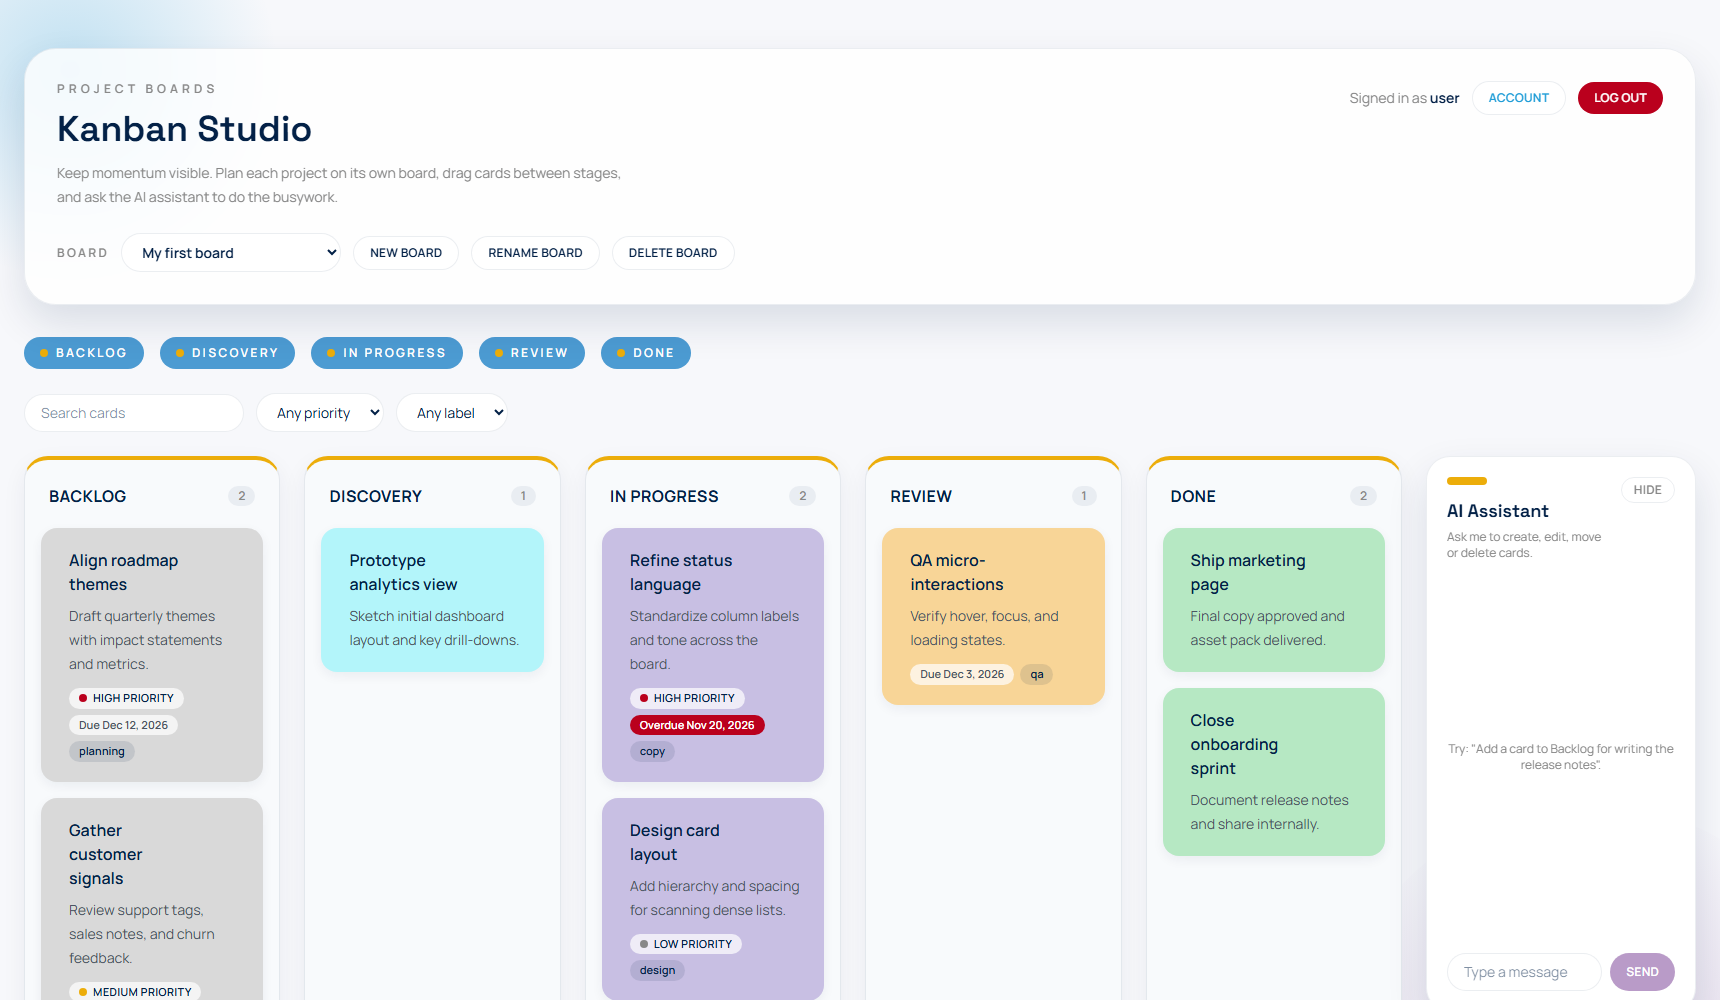
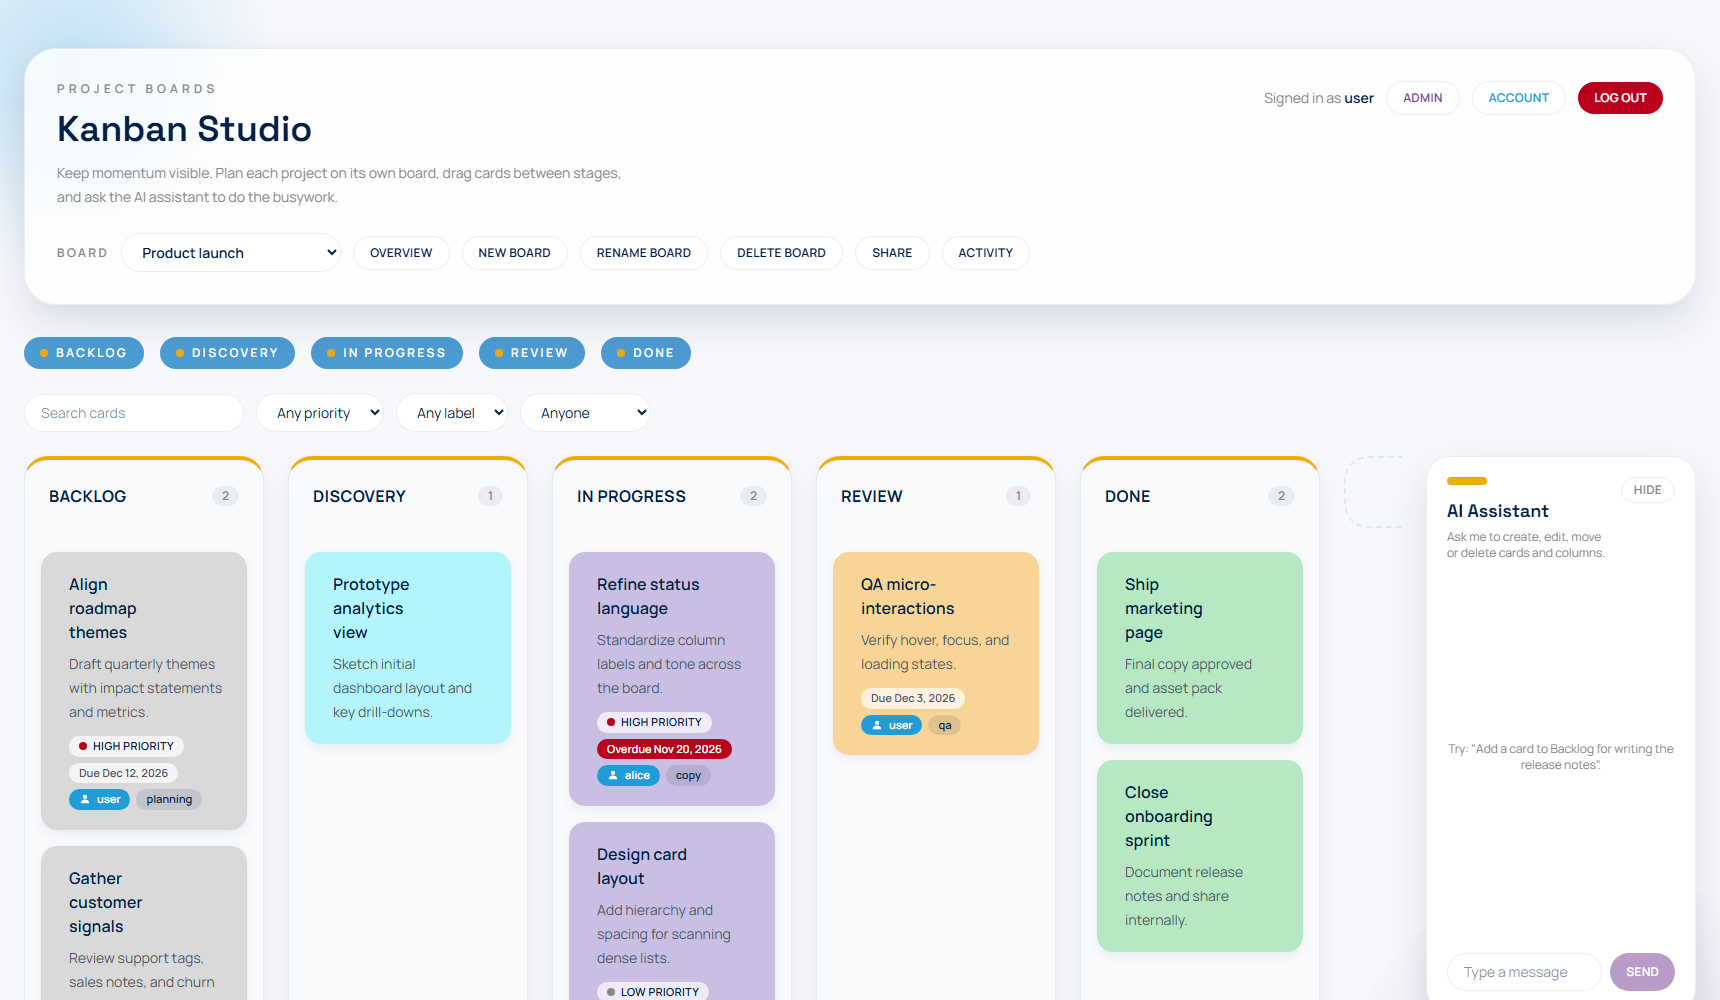
README feature list and a current screenshot

diff --git a/docs/PLAN.md b/docs/PLAN.md
@@ -485,3 +485,9 @@ Results: 190 backend tests, 131 Vitest (98.3% lines), 43 Playwright, all passing
 - Checked on the real app after a backup: both accounts and both boards kept their ids and data, and `PRAGMA foreign_key_check` is clean
 
 Results: 192 backend tests (including live, 99.88% coverage), frontend unchanged (131 Vitest, 43 Playwright).
+
+### Wrap-up
+
+- README: a short feature list; `docs/screenshot.png` retaken from a throwaway container (demo data only) showing a shared board with assignees, the assignee filter and the current board bar
+- Known, by design: at about 1700px wide with the chat open, the "+ Add column" tile is just past the right edge; the column row scrolls sideways to it
+- Final verification on the finished code: lint and build clean; 192 backend tests including live AI (99.88% coverage); 131 Vitest (98.3% lines, 95.0% branches); 43 Playwright

diff --git a/README.md b/README.md
@@ -4,6 +4,13 @@ Project management app with accounts, multiple Kanban boards per user and an AI 
 
 ![Kanban Studio board with the AI Assistant sidebar](docs/screenshot.png)
 
+- Accounts: sign up, change password, delete account; admins manage users
+- Any number of boards per user, shared with other users by username
+- Editable columns; cards with priority, due date, labels and an assignee
+- Search and filters, an activity log per board, and an overview of all boards
+- Live updates: changes by others appear within a few seconds
+- An AI assistant that creates, edits, moves, assigns and deletes cards and columns
+
 Requires Docker and a `.env` file in the repo root containing `OPENROUTER_API_KEY`. Optional settings in `.env`:
 
 - `SESSION_SECRET`: a long random string that signs the sign-in cookie. Without it a random one is used and every restart signs you out.
